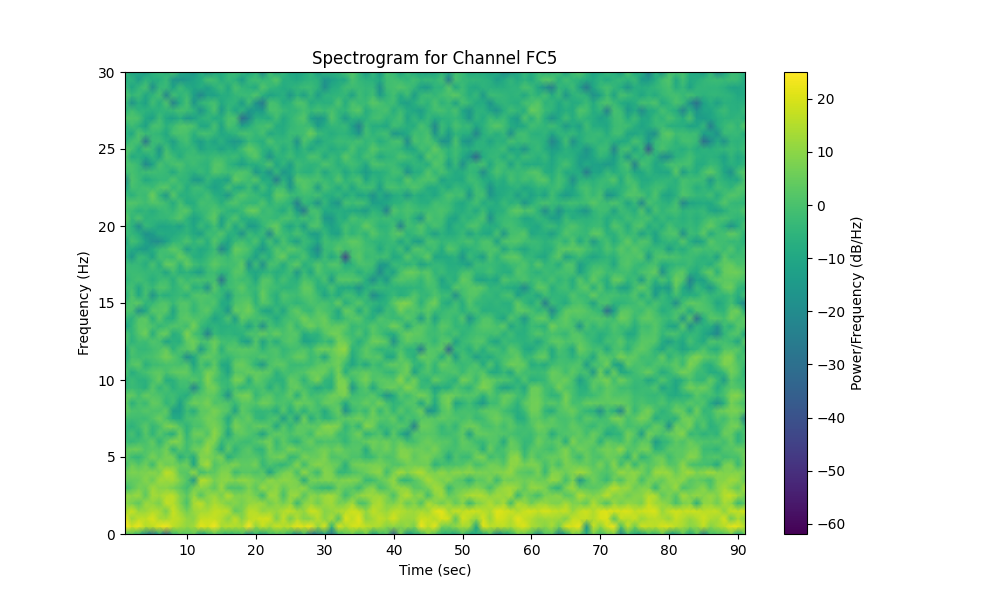
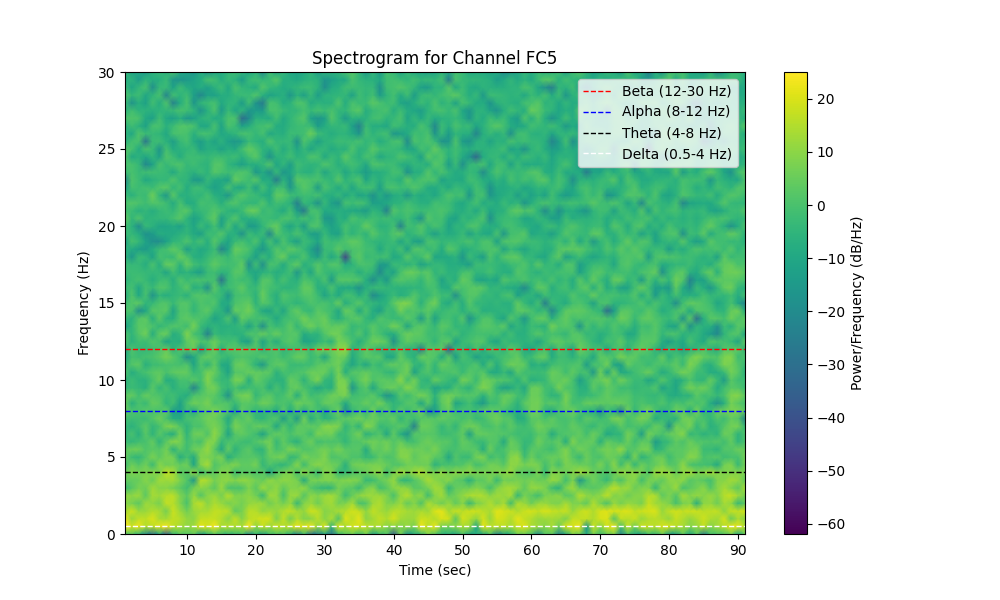
spectrogram brainwaves label

diff --git a/spectro-psd.py b/spectro-psd.py
@@ -11,8 +11,8 @@ except FileNotFoundError:
     print("Error: eeg_data.csv not found. Please ensure the file is in the current directory.")
     exit()
 
-sf = 128 # Sampling frequency (Hz)
-nperseg = 256 # Segment size for analysis
+sf = 128  # Sampling frequency (Hz)
+nperseg = 256  # Segment size for analysis
 
 # List of all EEG feature channels
 feature_columns = [
@@ -29,12 +29,10 @@ os.makedirs(spectrogram_dir, exist_ok=True)
 print(f"Directories '{psd_dir}' and '{spectrogram_dir}' are ready.")
 
 # --- Loop through all channels for analysis and saving ---
-
 for channel in feature_columns:
     print(f"--- Analyzing Channel: {channel} ---")
 
     # --- 1. PSD Analysis and Saving ---
-
     # Separate data into eye states
     data_open = df[df['eyeDetection'] == 1][channel]
     data_closed = df[df['eyeDetection'] == 0][channel]
@@ -53,15 +51,14 @@ for channel in feature_columns:
     plt.title(f'PSD Analysis for Channel {channel}')
     plt.legend()
     plt.grid(True)
-    
+
     # Save the PSD plot to the directory
     psd_filename = os.path.join(psd_dir, f'psd_{channel}.png')
     plt.savefig(psd_filename)
-    plt.close() # Close the plot to free memory
+    plt.close()  # Close the plot to free memory
     print(f"Saved PSD plot: {psd_filename}")
 
     # --- 2. Spectrogram Analysis and Saving ---
-
     data = df[channel].values
 
     # Calculate the spectrogram
@@ -76,12 +73,19 @@ for channel in feature_columns:
     plt.title(f'Spectrogram for Channel {channel}')
     plt.colorbar(label='Power/Frequency (dB/Hz)')
 
+    # Add horizontal lines for brain wave frequency ranges
+    plt.axhline(y=12, color='red', linestyle='--', linewidth=1, label='Beta (12-30 Hz)')
+    plt.axhline(y=8, color='blue', linestyle='--', linewidth=1, label='Alpha (8-12 Hz)')
+    plt.axhline(y=4, color='black', linestyle='--', linewidth=1, label='Theta (4-8 Hz)')
+    plt.axhline(y=0.5, color='white', linestyle='--', linewidth=1, label='Delta (0.5-4 Hz)')
+    plt.legend(loc='upper right')
+
     # Save the spectrogram plot to the directory
     spectrogram_filename = os.path.join(spectrogram_dir, f'spectrogram_{channel}.png')
     plt.savefig(spectrogram_filename)
-    plt.close() # Close the plot to free memory
+    plt.close()  # Close the plot to free memory
     print(f"Saved Spectrogram plot: {spectrogram_filename}")
-    
+
     print(f"--- Finished analyzing Channel: {channel} ---")
 
 print("All analyses complete. Plots saved in the 'plots' directory.")
